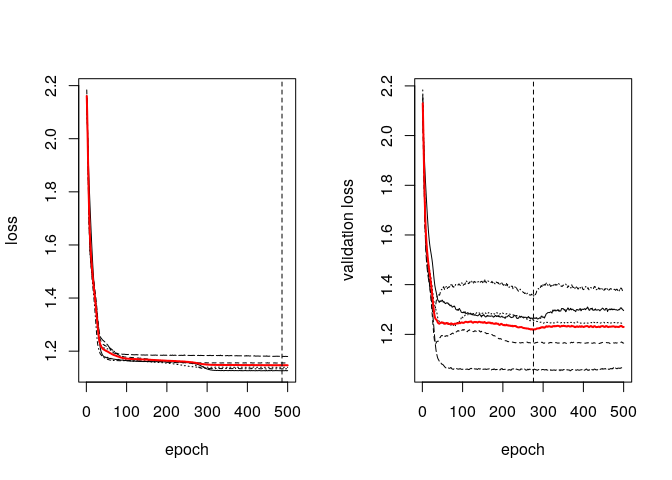
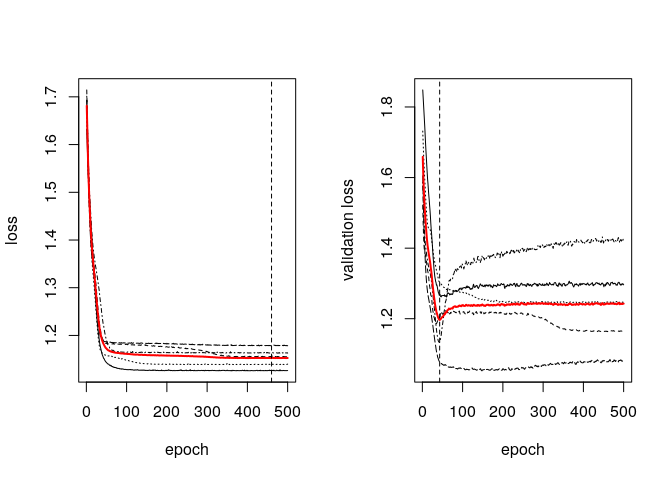
fix issues to allow for lists as input

diff --git a/README.md b/README.md
@@ -38,7 +38,7 @@ install_github("davidruegamer/deepregression")
 Examples
 ========
 
-1.  [Deep Linear Regression](#deep-linear-regression)
+1.  [Deep Additive Regression](#deep-linear-regression)
 2.  [Deep Logistic Regression](#deep-logistic-regression)
 3.  [Deep GAM](#deep-gam)
 4.  [GAMLSS](#gamlss)
@@ -48,17 +48,16 @@ Examples
     1.  [Deep Mixed Model for Wage Panel Data](#deep-mixed-model-for-wage-panel-data)
     2.  [Deep Quantile Regression on Motorcycle Data](#deep-quantile-regression-on-motorcycle-data)
     3.  [High-Dimensional Ridge and Lasso Regression on Colon Cancer Data](#high-dimensional-ridge-and-lasso-regression)
-    4.  [Mixture Distribution for Acidity Modeling](#mixture-of-normals)
+    4.  [Mixture distribution for Acidity Modeling](#mixture-of-normals)
 8.  [Unstructured Data Examples](#unstructured-data-examples)
     1.  [MNIST Pictures with Binarized Response](#mnist-zeros)
     2.  [MNIST Pictures with Multinomial Response](#mnist-multinomial)
     3.  [Sentiment Analysis using IMDB Reviews](#text-as-input)
 
+Deep Additive Regression
+------------------------
 
-Deep Linear Regression
-----------------------
-
-We first create a very simple linear regression first where we try to model the non-linear part of the data generating process using a complex neural network and an intercept using a structured linear part.
+We first create a very simple regression where we try to model the non-linear part of the data generating process using a complex neural network and an intercept using a structured linear part.
 
 ``` r
 set.seed(24)
@@ -259,8 +258,7 @@ mod <- deepregression(
   df = 10 # use no penalization for spline
 )
 # fit model
-history <- mod %>% fit(epochs=bestiter, verbose = FALSE, view_metrics = FALSE,
-                       save_weights = TRUE)
+mod %>% fit(epochs=bestiter, verbose = FALSE, view_metrics = FALSE)
 # plot model
 par(mfrow=c(1,2))
 plot(true_mean_fun(x) ~ x)
@@ -893,24 +891,14 @@ plot(coef[[1]][[1]])
 
 ![](README_files/figure-markdown_github/unnamed-chunk-12-4.png)
 
-Mixture of Normals
+Mixture of normals
 ------------------
 
-We here estiamte the mixture of three normal distributions to fit the model to the acidity data, a data set showing the acidity index for 155 lakes in the Northeastern United States.
+We here estimate a mixture of three normal distributions for the acidity data, a data set showing the acidity index for 155 lakes in the Northeastern United States.
 
 ``` r
 # load data
 library("gamlss.data")
-```
-
-    ## 
-    ## Attaching package: 'gamlss.data'
-
-    ## The following object is masked from 'package:datasets':
-    ## 
-    ##     sleep
-
-``` r
 data(acidity)
 
 # softmax function
@@ -939,15 +927,15 @@ cvres <- mod %>% cv(epochs = 500, cv_folds = 5)
 ```
 
     ## Fitting Fold  1  ... 
-    ## Done in 35.36168  secs 
+    ## Done in 35.70982  secs 
     ## Fitting Fold  2  ... 
-    ## Done in 34.21259  secs 
+    ## Done in 38.83584  secs 
     ## Fitting Fold  3  ... 
-    ## Done in 33.63657  secs 
+    ## Done in 41.88017  secs 
     ## Fitting Fold  4  ... 
-    ## Done in 33.85886  secs 
+    ## Done in 51.84174  secs 
     ## Fitting Fold  5  ... 
-    ## Done in 33.94692  secs
+    ## Done in 49.26305  secs
 
 ![](README_files/figure-markdown_github/unnamed-chunk-13-1.png)
 
@@ -958,25 +946,23 @@ coefinput <- unlist(mod$model$get_weights())
 (means <- coefinput[c(2:4)])
 ```
 
-    ## [1] -0.2290305  1.3202169 -0.8790442
+    ## [1]  1.1307266  0.3487663 -0.7707656
 
 ``` r
 (stds <- exp(coefinput[c(5:7)]))
 ```
 
-    ## [1] 0.6950519 0.4000296 0.2292812
+    ## [1] 0.5324980 2.3916503 0.3343867
 
 ``` r
 (pis <- softmax(coefinput[8:10]*coefinput[1]))
 ```
 
-    ## [1] 0.2913544 0.3130229 0.3956226
+    ## [1] 0.40977218 0.01705999 0.57316783
 
 ``` r
 library(distr)
-```
 
-``` r
 mixDist <- UnivarMixingDistribution(Norm(means[1],stds[1]),
                                     Norm(means[2],stds[2]),
                                     Norm(means[3],stds[3]),
